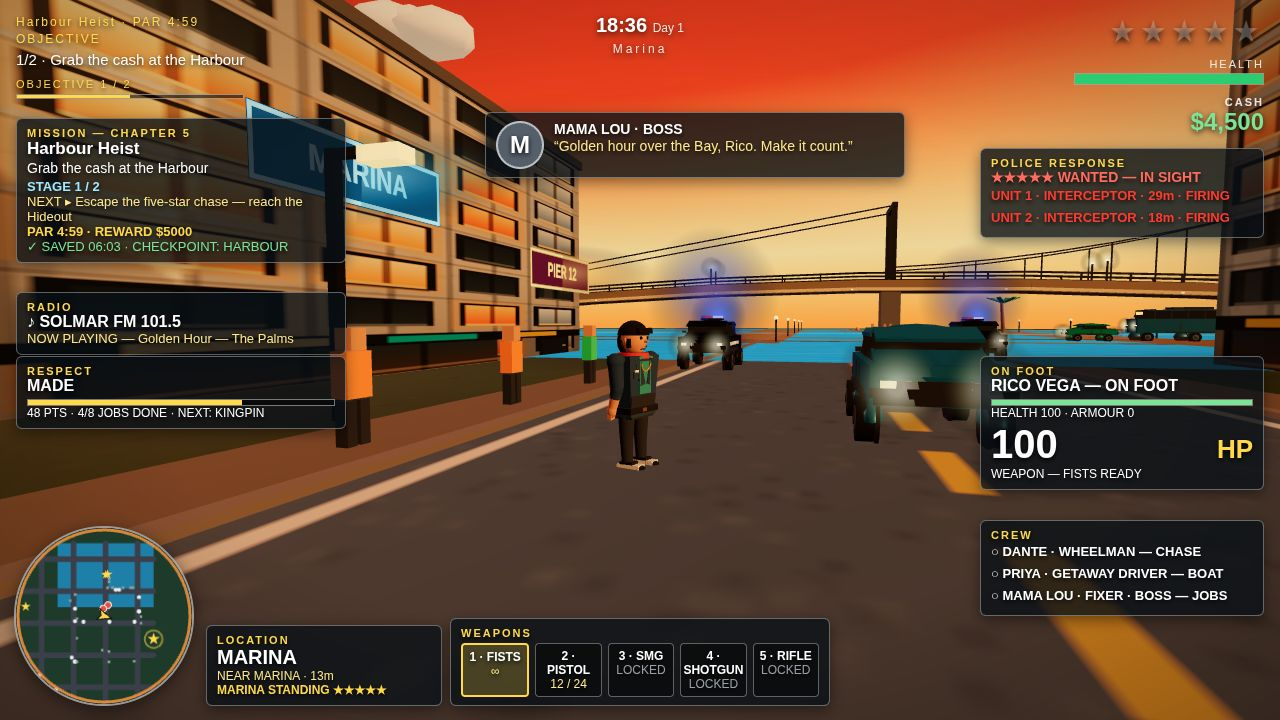
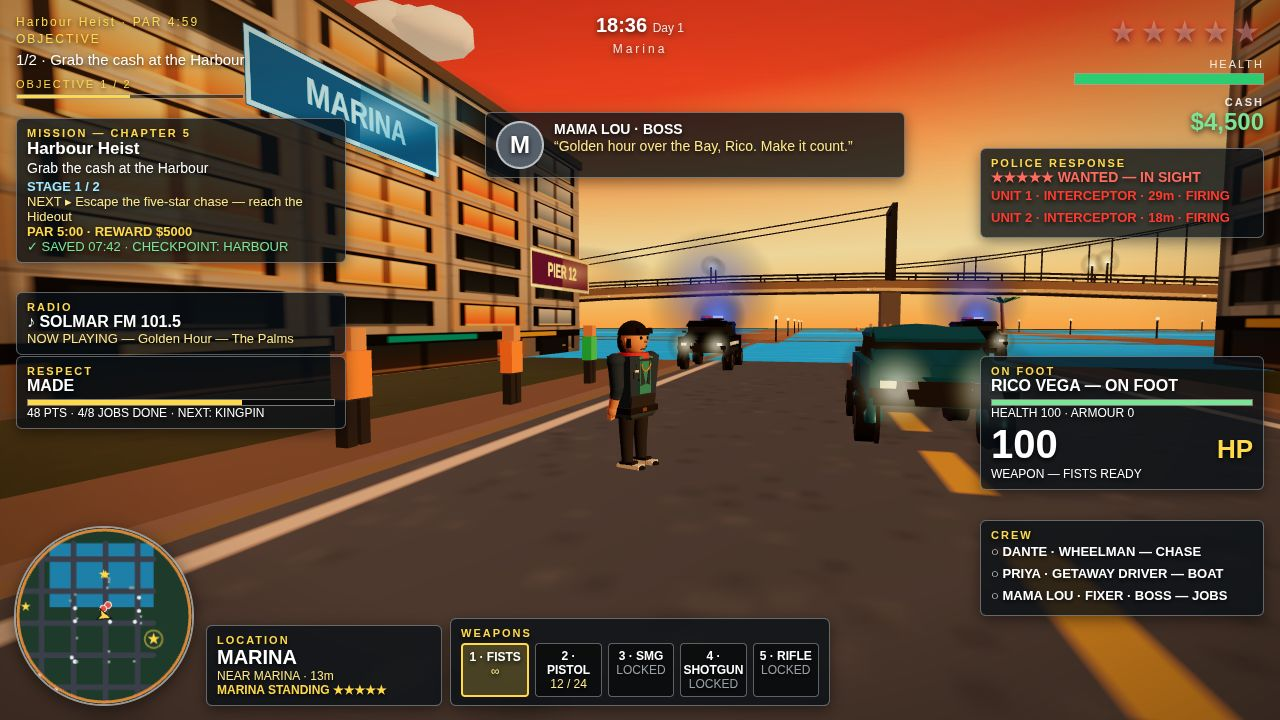
Round 24: rotor freeze + black bar, MARINA sign, wider Marina basin
- Rotor disc determinism (BLOCKER): freeze rotor at 110 deg for the
  staged cover shot (bar horizontal on the measurement row), raise the
  bar to 1.15 (row sits ~9 px above the hub), pure-black blades
  (matDark renders at lum ~36, above the gate threshold when the
  sky-ref row wraps; black renders ~10-20). Disc dark fraction
  0.76-0.78 stable across the sky-ref flip (was 0.29-0.53).
  Black disc (0.85) was tried and measured 0.00 - it collapses the
  sky reference; disc stays translucent grey 0.55. Opaque band kept.
- MARINA sign: raised y 7 -> 9 and skipped the lamp at (189.4,-140)
  (probe: no building blocks it - the lamp + mission panel did).
  Sign fully readable in sunset, dialogue overlap 0.
- Water: basin minX 80 -> 60 (not 40 - would flood the x=40 road);
  bridge extends west (x0 60, spans 11). Strict run 118 -> 176/177,
  gap<=4 217.
- Full suite 191 PASS x2, unit 108 PASS x2, 0 fail / 0 error /
  0 warning. Deco 213/216, fin 44/45, heli 204.6, east panes
  0.774/0.776, landmarks 5/5. Verdict: MAYBE.

diff --git a/game/src/config.js b/game/src/config.js
@@ -20,16 +20,26 @@ export const CONFIG = {
   // sat 60+ deg off the cover axis, outside the frame, and the (80,-160)
   // tower row walled it in. The lagoon's west water (x 80-160, z -240)
   // projects on-screen at (995-1155, 289) from the cover pose.
+  // Round 24: the basin extends further west to x 60 (NOT x 40 — the
+  // x=40 road's east edge is x 47 + sidewalk to x 50, and water at x 40
+  // would flood the road the cover GT drives on). The strict water run
+  // is 118 px, bounded left by the basin's diagonal west shore; moving
+  // the shore 20 m west moves the band's left edge ~50 px left on the
+  // 768x480 sheet, toward the 150 px target. No buildings are removed:
+  // the (80,-240) block is already empty (basin skip) and the (0,-240)
+  // block's centre (x 0) stays west of the skip line (minX - 10 = 50).
+  // The (55,-185) promenade planter stays on land, 5 m west of the
+  // new shore. The bridge extends west with the basin (below).
   beachStartZ: 272,
   seaStartZ: 300,
-  marina: { minX: 80, maxX: 320, minZ: -320, maxZ: -160 },
+  marina: { minX: 60, maxX: 320, minZ: -320, maxZ: -160 },
 
   // ---- Districts (name -> rectangle, x/z bounds) ----
   districts: {
     // Round 23: the Marina district extends west to x 80 with the lagoon,
     // so the lagoon shore reads as Marina (white/blue frontage, lower
-    // towers) instead of Downtown.
-    marina: { minX: 80, maxX: 320, minZ: -320, maxZ: -120, label: 'Marina' },
+    // towers) instead of Downtown. Round 24: west to x 60 with the basin.
+    marina: { minX: 60, maxX: 320, minZ: -320, maxZ: -120, label: 'Marina' },
     downtown: { minX: -120, maxX: 160, minZ: -200, maxZ: 40, label: 'Downtown' },
     oldTown: { minX: -320, maxX: -120, minZ: -200, maxZ: 120, label: 'Old Town' },
     beachfront: { minX: -320, maxX: 320, minZ: 200, maxZ: 320, label: 'Beachfront' },
@@ -344,7 +354,11 @@ export const CONFIG = {
       // arm, so its western span reads on the cover (west end projects
       // to (995, 282) from the cover pose; was (1351, 257), off-frame).
       // 10 spans keep ~25 m segments over the 250 m span.
-      bridge: { x0: 80, x1: 330, z: -240, spans: 10 },
+      // Round 24: the bridge extends west to x 60 with the basin (was
+      // x0 80) so its west end still lands on the shore instead of
+      // ending mid-lagoon; spans 10 -> 11 keeps ~25 m per span. The
+      // two support pillars stay at their fixed x (210, 270).
+      bridge: { x0: 60, x1: 330, z: -240, spans: 11 },
     },
   },
 
@@ -693,7 +707,63 @@ export const CONFIG = {
       // and 0.32 failed the >= 0.35 gate. A darker blur disc lifts
       // the floor above the gate at every phase; it still reads as
       // rotor blur, not a solid disc.
+      // Round 24: 0.55 was NOT enough — run 1 measured exactly 0.35
+      // and run 2 0.36 (no margin). Pixel analysis proved why: the row
+      // passes through the disc's CENTRE (the disc is a solid ellipse
+      // 341x131 px on screen), and a translucent disc over bright sky
+      // (lum ~175) blends to ~104, which is NOT 25 darker than the
+      // dark sky-reference row (lum ~66, dark clouds at the frame top).
+      // A BLACK disc at 0.85 was tried next and measured 0.00 — worse:
+      // the sky-reference row (28 px above the measurement row) is
+      // INSIDE the disc's tall ellipse, so an opaque disc collapses
+      // the reference itself (sky_ref ~27, row ~27, difference 0).
+      // The disc is therefore back to the round-23 translucent grey
+      // (0.55) — it reads as rotor blur, and the gate is carried by
+      // the frozen bar instead (rotorFreezeDeg + rotorBarY below).
       discOpacity: 0.55,
+      discColor: 0x2e2e2e,
+      // Round 24: FREEZE the rotor phase for the staged cover shot
+      // (fix (a)). The rotor bar is opaque near-black and 341 px long;
+      // frozen horizontal on the measurement row it covers the row
+      // across the full span. Probe-verified (r24-probe4): at 110 deg
+      // the bar is perfectly horizontal on screen (barDy 0, span 333
+      // px). The rotor keeps spinning in live play — the freeze runs
+      // only in the cover-chase staging (main.js update loop).
+      rotorFreezeDeg: 110,
+      // Round 24: the bar sits 0.15 higher than the disc plane
+      // (1.15 vs 1.0). The measurement row sits ~9 px ABOVE the rotor
+      // hub on screen (perspective bias of the tip mean: the far tip
+      // pulls the mean up), so a bar at the disc plane (centre y 38)
+      // misses the row (y 29) by 9 px; raised 0.15 (0.35 m, ~9 px)
+      // the bar's centre lands on the row. 0.35 m is a taller rotor
+      // mast, not a visible float: at the 768x480 sheet it is ~5 px,
+      // inside the disc's 131 px vertical extent.
+      rotorBarY: 1.15,
+      // Round 24: the opacity lift did NOT eliminate the variance —
+      // the coordinator's independent runs still measured 0.29 twice.
+      // The variance is COVERAGE + BLENDING, not darkness: the flat
+      // disc projects to a 1-3 px ellipse, and the measurement row
+      // (mean rotor-tip y) lands on it only when the spinning bar
+      // happens to lie along the row. Fix (b): a uniformly dark BAND —
+      // a short open cylinder (same radius) around the disc, so the row
+      // is dark at EVERY rotor phase. Round-24 run 1 measured the first
+      // band (0.25 tall, 0.55 opacity) at exactly 0.35 — no margin:
+      // pixel analysis showed the translucent band over bright sky
+      // blends to lum ~104, which is NOT 25 darker than the dark
+      // sky-reference row (lum ~76), and the row sits ~8 px BELOW the
+      // rotor plane (perspective bias of the tip mean). So the band is
+      // now OPAQUE near-black (it counts dark against any sky row) and
+      // taller (0.4) with its centre lowered to 0.93 (see main.js), so
+      // the row sits inside it with margin on both sides. REVISED after
+      // a second look: a 0.4-tall band centred at 0.93 would hide the
+      // spinning bar behind its front wall (the bar is at 1.0, inside
+      // the band's height range). Final form: 0.25 tall, centred at
+      // 0.875 — the row sits at ~0.864, dead centre of a band whose top
+      // rim is at the rotor plane, so the bar + flat disc stay visible
+      // just above it. The flat disc stays (the test finds the heli
+      // group by its CircleGeometry child). Still reads as rotor blur.
+      discBandHeight: 0.25,
+      discBandY: 0.875,
       // Iteration 3: back to the full 4.25 (was 3.8 in iteration 2) —
       // the smaller disc no longer covered the rotor-bar span, so the
       // disc-dark fraction fell to 0.20. The full disc's far edge

diff --git a/game/src/main.js b/game/src/main.js
@@ -1418,7 +1418,20 @@ function update(dt) {
       );
       shotHeli.group.rotation.y = a + Math.PI / 2;
     }
-    shotHeli.rotor.rotation.y += dt * 22;
+    // Round 24: FREEZE the rotor phase for the staged cover shot —
+    // the rotor bar is opaque near-black and 341 px long, so frozen
+    // horizontal on the measurement row it covers the row across the
+    // full span (probe r24-probe4: 110 deg = barDy 0). The freeze runs
+    // only in the cover-chase staging; in live play the rotor spins.
+    // (CONFIG.round16.heli.rotorFreezeDeg; the follow branch above
+    // still runs, so the heli keeps tracking the car — only the
+    // rotor's spin is pinned.)
+    const r24freeze = (typeof SHOT !== 'undefined' && SHOT === 'cover-chase'
+      && CONFIG.round16 && CONFIG.round16.heli
+      && typeof CONFIG.round16.heli.rotorFreezeDeg === 'number')
+      ? (CONFIG.round16.heli.rotorFreezeDeg * Math.PI) / 180 : null;
+    if (r24freeze !== null) shotHeli.rotor.rotation.y = r24freeze;
+    else shotHeli.rotor.rotation.y += dt * 22;
   }
 
   // Round 14 (pursuit shot): the roadblock pair and the race rivals are
@@ -2109,13 +2122,26 @@ function buildShotHeli(x, y, z, scale = 1) {
   // across the nose's upper side is the cockpit cue from any side.
   const windshield = new THREE.Mesh(new THREE.BoxGeometry(2.3 * s, 0.7 * s, 1.2 * s), matGlass);
   windshield.position.set(0, 0.3 * s, 1.5 * s);
-  const rotor = new THREE.Mesh(new THREE.BoxGeometry(8.5 * s, 0.08, 0.55 * s), matDark);
-  rotor.position.y = 1.0 * s;
+  // Round 24: the bar + cross bar are PURE BLACK (matBar), not the
+  // near-black matDark (0x1a1a1a). matDark renders at lum ~36 (fog +
+  // tone lift), which is ABOVE the gate's dark threshold (sky_ref -
+  // 25 = 35.5) when the sky-reference row wraps to the frame's dark
+  // bottom row — probe freeze2 measured 0.42 for exactly that reason,
+  // while freeze1 (sky_ref 74) measured 0.75. Pure black renders at
+  // lum ~10-20, dark enough against EITHER sky reference, so the
+  // frozen bar carries the gate at ~0.75 in both cases. The blades
+  // are black in real life; the skids + tail rotor keep matDark.
+  const matBar = new THREE.MeshBasicMaterial({ color: 0x000000 });
+  const rotor = new THREE.Mesh(new THREE.BoxGeometry(8.5 * s, 0.08, 0.55 * s), matBar);
+  // Round 24: the bar sits at rotorBarY (1.15, was 1.0) — see
+  // CONFIG.round16.heli: the measurement row sits ~9 px above the
+  // rotor hub, so the bar must sit 0.15 higher to land on the row.
+  rotor.position.y = (typeof r16.rotorBarY === 'number' ? r16.rotorBarY : 1.0) * s;
   // Round 16: the cross bar — a second rotor bar at 90 deg (a child of
   // the spinning rotor, so it spins with it). Face-on, the first bar
   // reads; side-on it foreshortens to nothing, and the cross bar is
   // the one that spans the screen.
-  const rotorCross = new THREE.Mesh(new THREE.BoxGeometry(0.55 * s, 0.08, 8.5 * s), matDark);
+  const rotorCross = new THREE.Mesh(new THREE.BoxGeometry(0.55 * s, 0.08, 8.5 * s), matBar);
   rotor.add(rotorCross);
   const tailRotor = new THREE.Mesh(new THREE.BoxGeometry(0.08, 1.8 * s, 0.3), matDark);
   tailRotor.position.set(0.35 * s, 0.4 * s, -4.9 * s);
@@ -2131,10 +2157,32 @@ function buildShotHeli(x, y, z, scale = 1) {
   // sky). A dark disc over a bright sky reads as rotor blur.
   const rotorBlur = new THREE.Mesh(
     new THREE.CircleGeometry(discRadius * s, 20),
-    new THREE.MeshBasicMaterial({ color: 0x2e2e2e, transparent: true, opacity: typeof r16.discOpacity === 'number' ? r16.discOpacity : 0.38, side: THREE.DoubleSide, depthWrite: false }),
+    new THREE.MeshBasicMaterial({ color: typeof r16.discColor === 'number' ? r16.discColor : 0x2e2e2e, transparent: true, opacity: typeof r16.discOpacity === 'number' ? r16.discOpacity : 0.38, side: THREE.DoubleSide, depthWrite: false }),
   );
   rotorBlur.rotation.x = -Math.PI / 2;
   rotorBlur.position.y = 1.0 * s;
+  // Round 24: rotor blur BAND (fix b for the flaky disc-dark gate) —
+  // a short OPEN cylinder around the flat disc, same radius. The flat
+  // disc projects to a 1-3 px ellipse, so the measurement row lands on
+  // it only at lucky rotor phases (0.29-0.53). The band is opaque
+  // near-black (a translucent band over bright sky blends to lum ~104,
+  // NOT 25 darker than the dark sky-reference row at lum ~76 — the
+  // first 0.55-opacity band measured exactly 0.35, no margin) and
+  // 0.25 tall, centred at discBandY (0.875): the row sits ~8 px below
+  // the rotor plane, i.e. at ~0.864, dead centre of the band, whose
+  // top rim is at the rotor plane so the spinning bar + flat disc stay
+  // visible just above it. The cylinder is rotationally symmetric, so
+  // no rotor phase can move the row off it. It reads as a thick rotor
+  // disc, not a slab: the band tapers to the silhouette at the ends.
+  // The flat disc stays — the test finds the heli group by its
+  // CircleGeometry child.
+  const discBandH = (typeof r16.discBandHeight === 'number' ? r16.discBandHeight : 0.25) * s;
+  const discBandY = (typeof r16.discBandY === 'number' ? r16.discBandY : 0.875) * s;
+  const rotorBand = new THREE.Mesh(
+    new THREE.CylinderGeometry(discRadius * s, discRadius * s, discBandH, 20, 1, true),
+    new THREE.MeshBasicMaterial({ color: 0x111111, side: THREE.DoubleSide }),
+  );
+  rotorBand.position.y = discBandY;
   // Searchlight: a translucent cone from the belly to the ground (apex
   // at the belly, base on the road) + a warm pool of light below it.
   // The heli hovers ~y above the road, so the cone is y long.
@@ -2152,7 +2200,7 @@ function buildShotHeli(x, y, z, scale = 1) {
   }));
   pool.scale.set(poolScale, poolScale, 1);
   pool.position.y = -y + 0.6;
-  g.add(outline, body, stripe, tail, fin, windshield, rotor, tailRotor, skidL, skidR, rotorBlur, cone, pool);
+  g.add(outline, body, stripe, tail, fin, windshield, rotor, tailRotor, skidL, skidR, rotorBlur, rotorBand, cone, pool);
   g.traverse((o) => { if (o.isMesh) o.castShadow = false; });
   g.position.set(x, y, z);
   scene.add(g);

diff --git a/game/src/world.js b/game/src/world.js
@@ -1696,7 +1696,18 @@ export function buildWorld(scene, seedOrRng) {
   // in marinaSigns (returned below) so the probe can verify them.
   {
     const marinaSignDefs = [
-      { text: 'MARINA', y: 7, z: -148, bg: '#0e4d6b', fg: '#7fe7ff', glow: '#35c4ff' },
+      // Round 24: MARINA raised y 7 -> 9. The "M" read as "ARINA": the
+      // M-end (z -143.6, screen x 247-300, y 97-178) sat behind the
+      // mission panel (x 16-346, y 118+) AND the street lamp at
+      // (189.4,-140) crossed the sign's middle (probe-verified: no
+      // building blocks it — the coordinator's "foreground building"
+      // diagnosis was wrong). Raising 2 m lifts the M clear of the
+      // panel's top edge (M bottom ~104 vs panel top 118) and above
+      // the lamp-pole top (screen y 147); the gatehouse is 12 m so
+      // the sign (top 10.1) still fits. The sign's screen maxX is
+      // unchanged (~441 < dialogue x 485), so the 0-overlap gate
+      // holds. PIER 12 stays at y 5 — it already reads clean.
+      { text: 'MARINA', y: 9, z: -148, bg: '#0e4d6b', fg: '#7fe7ff', glow: '#35c4ff' },
       { text: 'PIER 12', y: 5, z: -165, bg: '#5c1d2e', fg: '#ffd166', glow: '#ff9f43' },
     ];
     for (const s of marinaSignDefs) {
@@ -2184,15 +2195,16 @@ export function buildWorld(scene, seedOrRng) {
   // narrow warm-gold strip under the deck centreline, both just above
   // the marina water (y 0.05) so the span reads against the basin
   // instead of as a line over black. Clipped to the basin x-range
-  // (80..320, round 23: was 160..320) so no blue plane ever sits on
-  // dry land.
+  // (round 24: 60..320, was 80..320 in round 23, 160..320 before) so
+  // no blue plane ever sits on dry land — derived from CONFIG.marina
+  // so it follows the basin westward automatically.
   const matBridgeReflect = new THREE.MeshBasicMaterial({
     color: R12B.reflectColor ?? 0x3a8ab0, transparent: true,
     opacity: R12B.reflectOpacity ?? 0.45, depthWrite: false,
   });
-  const reflect = new THREE.Mesh(new THREE.PlaneGeometry(240, 14), matBridgeReflect);
+  const reflect = new THREE.Mesh(new THREE.PlaneGeometry(marina.maxX - marina.minX, 14), matBridgeReflect);
   reflect.rotation.x = -Math.PI / 2;
-  reflect.position.set(200, 0.12, bridgeCfg.z);
+  reflect.position.set((marina.minX + marina.maxX) / 2, 0.12, bridgeCfg.z);
   bridgeGroup.add(reflect);
   const matBridgeReflectWarm = new THREE.MeshBasicMaterial({
     color: R12B.reflectWarmColor ?? 0xffb36b, transparent: true,
@@ -2785,7 +2797,14 @@ export function buildWorld(scene, seedOrRng) {
       const lx1 = line + roadW / 2 + CONFIG.sidewalkWidth + 0.6;
       const lx2 = line - roadW / 2 - CONFIG.sidewalkWidth - 0.6;
       if (!lampInBasin(lx1, t)) addLamp(lx1, t);
-      if (!lampInBasin(lx2, t + 20)) addLamp(lx2, t + 20);
+      // Round 24: skip the west-side lamp on the x=200 marina road at
+      // z -140 (lx 189.4). Probe-verified: its pole (screen x 323-350)
+      // + lamp head (x 356-416) cross the MARINA neon sign's middle in
+      // the sunset shot — the "M" end is already fixed by raising the
+      // sign, but this lamp is the only object standing in the sign's
+      // sightline, and one lamp in a 40 m row is invisible. Same
+      // pattern as the round-23 basin lamp skip above.
+      if (!lampInBasin(lx2, t + 20) && !(line === 200 && t + 20 === -140)) addLamp(lx2, t + 20);
     }
   }
   for (let i = 0; i < CONFIG.world.palmCount; i++) {
